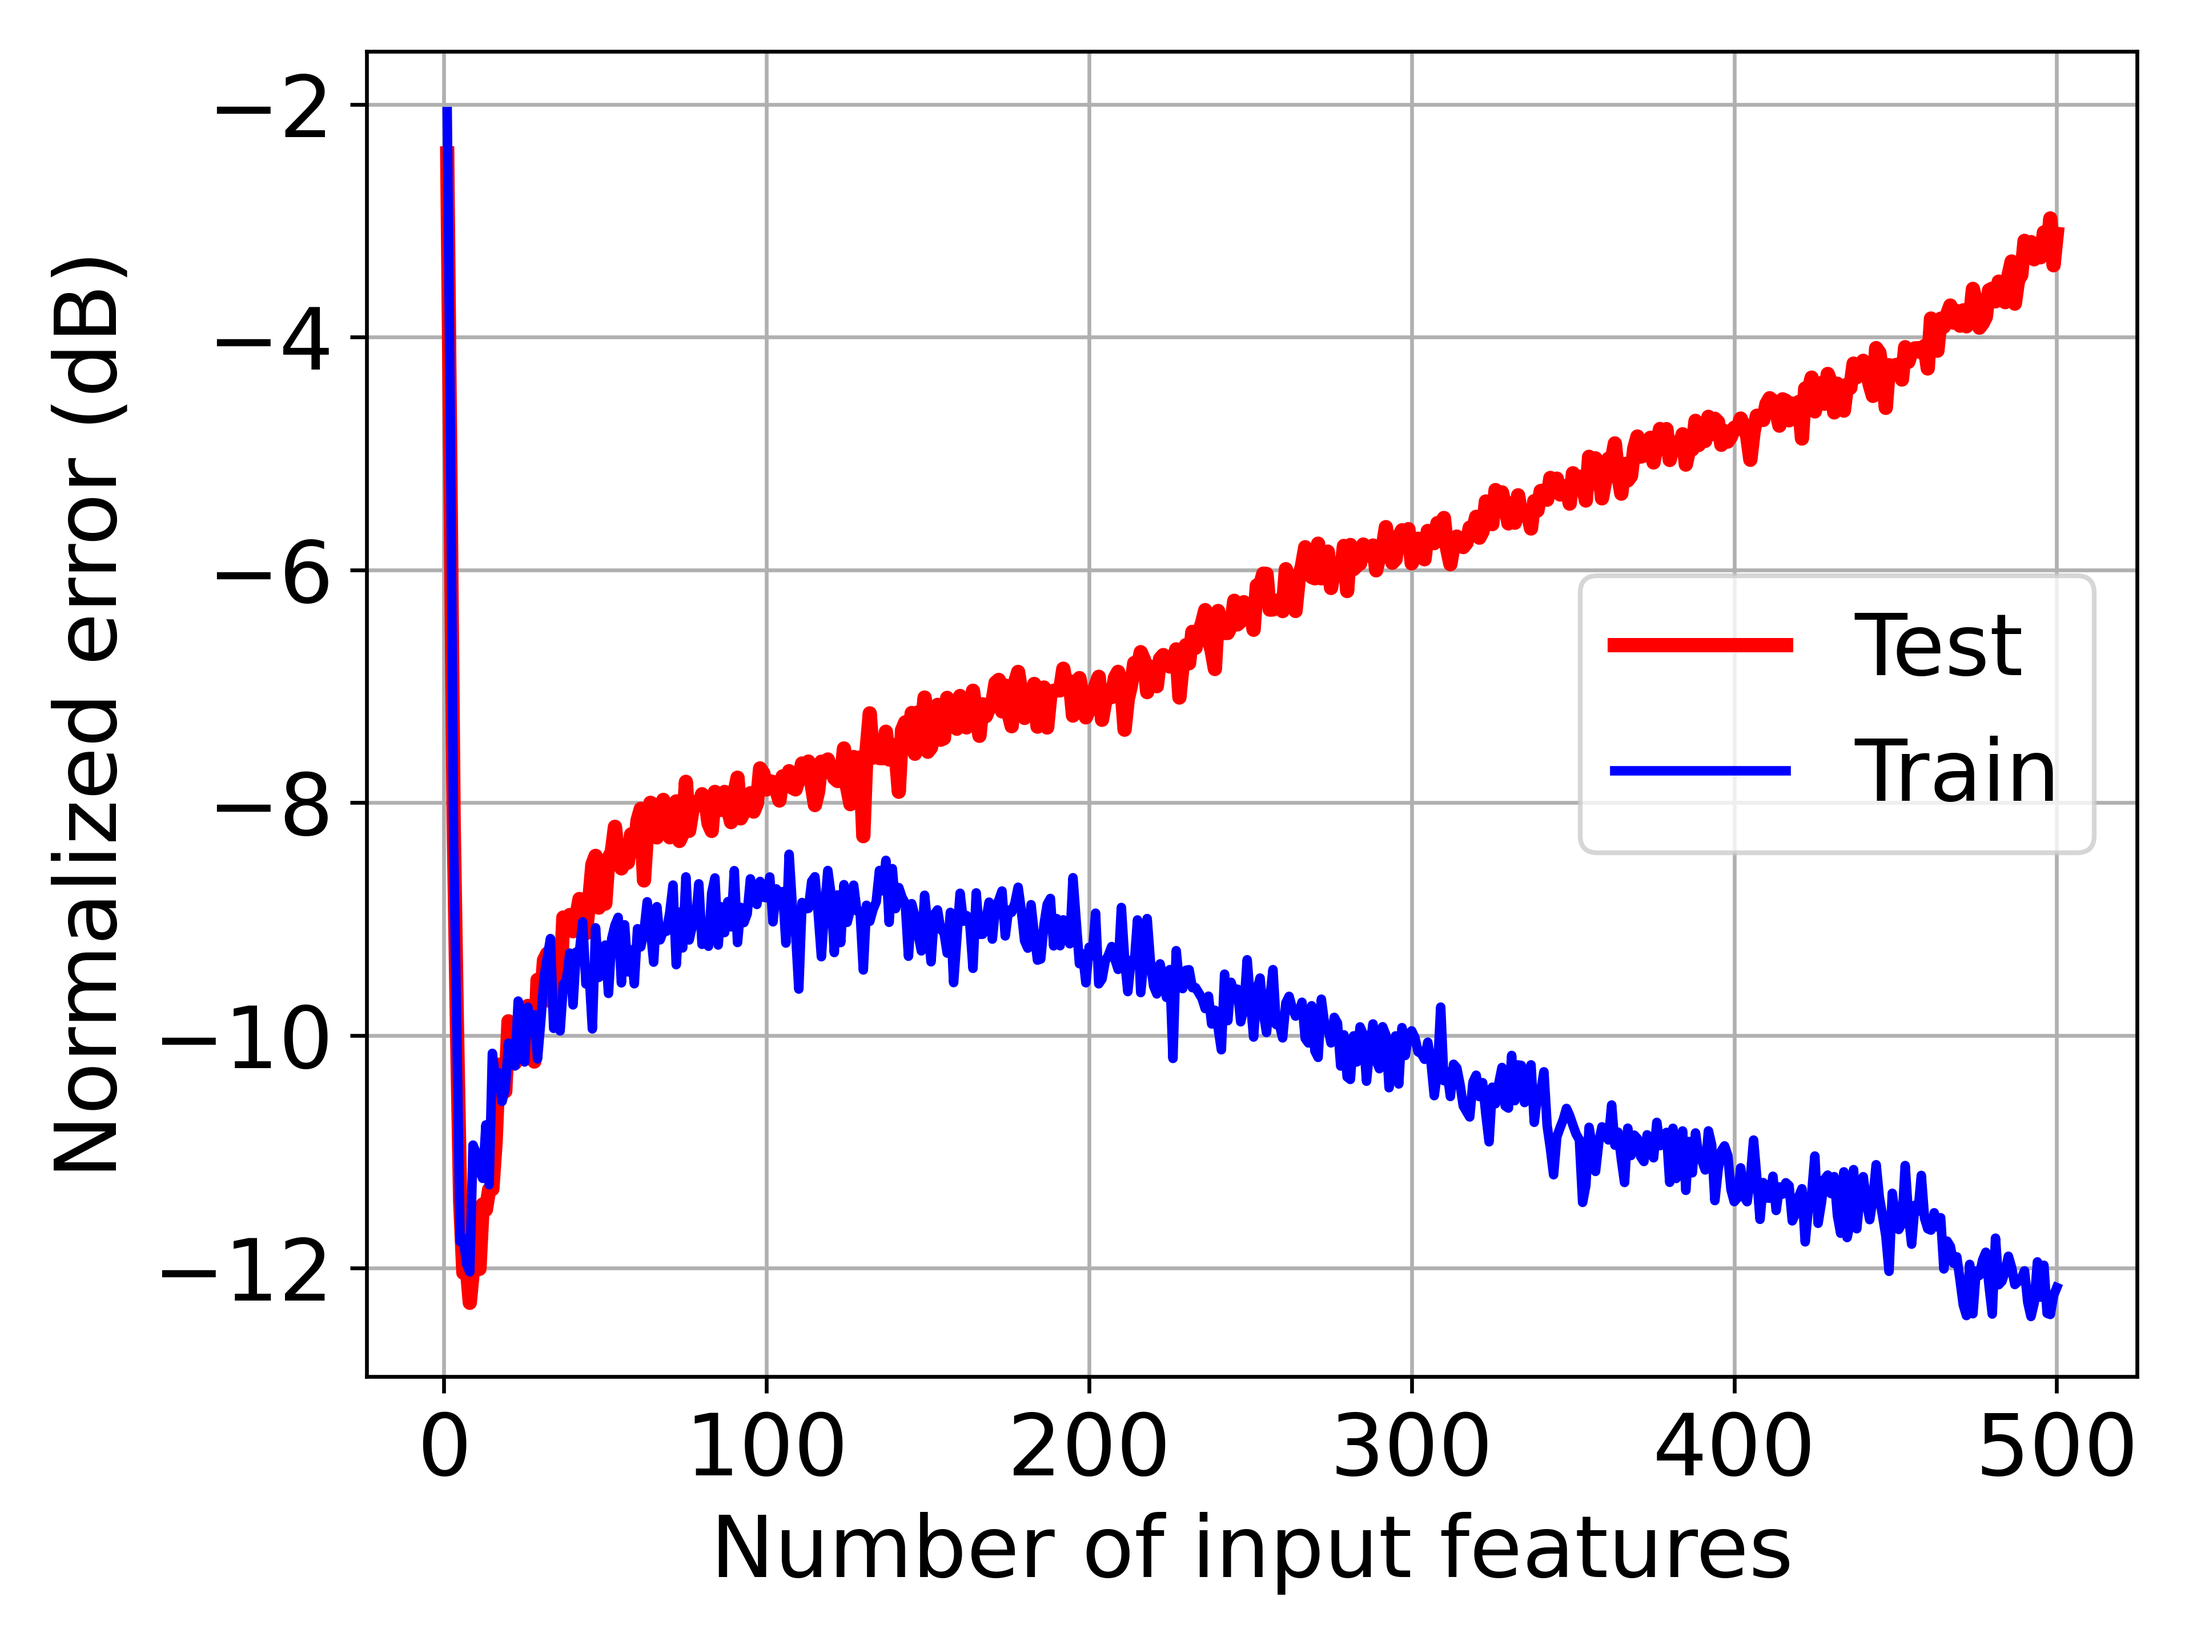
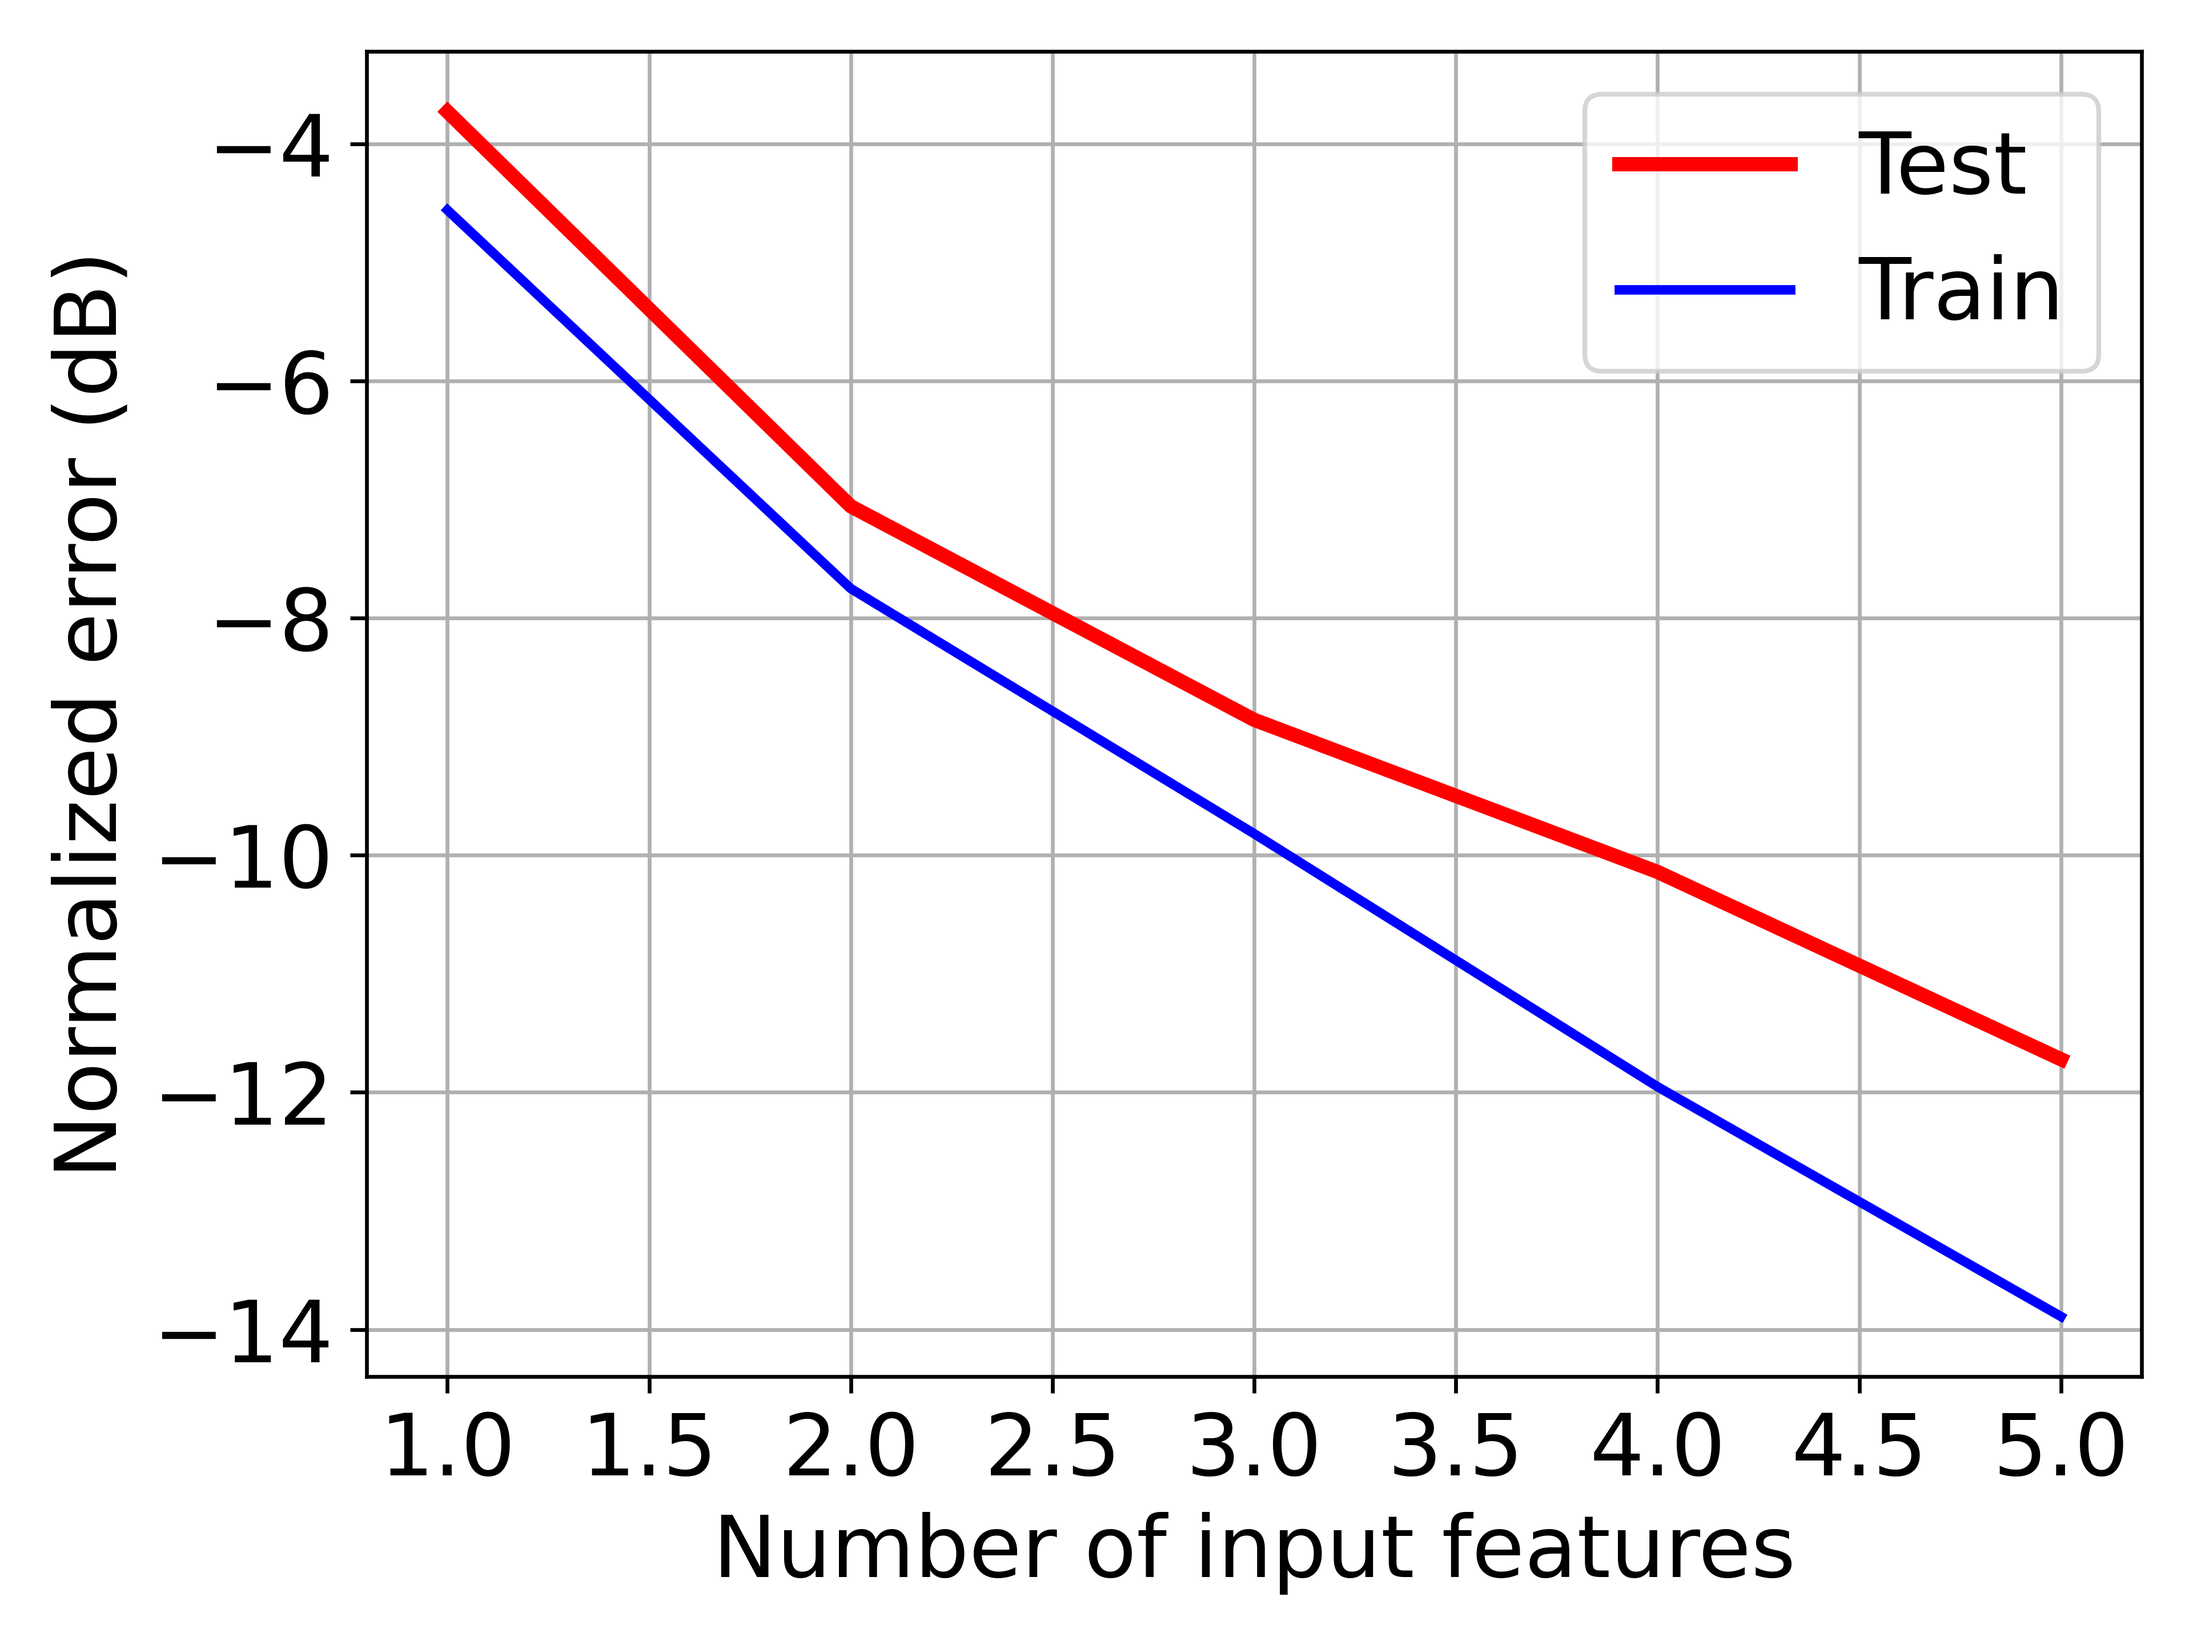
FNSR & FPSR

diff --git a/NMP.py b/NMP.py
@@ -114,6 +114,8 @@ def Err_vs_feat(args):
     """
     SSFN_hparameters = set_hparameters(args)
 
+    eta = args.eta
+
     J = SSFN_hparameters["J"]
     Pextra = SSFN_hparameters["Pextra"]
     data = SSFN_hparameters["data"]
@@ -121,10 +123,10 @@ def Err_vs_feat(args):
     NodeNum = SSFN_hparameters["NodeNum"]
 
     X_train, X_test, T_train, T_test = define_dataset(args)
-    X_train = X_train[:,:int(round(0.9*J))] 
-    T_train = T_train[:,:int(round(0.9*J))]
-    X_test = X_test[:,:int(round(0.1*J))] 
-    T_test = T_test[:,:int(round(0.1*J))]
+    # X_train = X_train[:,:int(round(0.9*J))] 
+    # T_train = T_train[:,:int(round(0.9*J))]
+    # X_test = X_test[:,:int(round(0.1*J))] 
+    # T_test = T_test[:,:int(round(0.1*J))]
 
     Ntr = X_train.shape[1]
     Nts = X_test.shape[1]
@@ -177,6 +179,10 @@ def Err_vs_feat(args):
         else:
             i = np.argmin(test_error_array)
 
+        if len(test_error_sorted) > 1:
+            if np.abs(test_error_array[i] - test_error_sorted[-1])/np.abs(test_error_sorted[-1]) < eta or np.abs(test_error_array[i]) <= np.abs(test_error_sorted[-1]):
+                break
+
         best_ind = search_ind[i]
         train_error_sorted = np.append(train_error_sorted, train_error_array[i])
         test_error_sorted = np.append(test_error_sorted, test_error_array[i])
@@ -184,6 +190,7 @@ def Err_vs_feat(args):
         test_acc_sorted = np.append(test_acc_sorted, test_acc_array[i])
         sorted_ind = np.append(sorted_ind, best_ind)
         search_ind = np.delete(search_ind, i)
+    
         # print(sorted_ind)
         # print(str(round(len(sorted_ind)/P * 100,2))+"%")
 
@@ -203,8 +210,8 @@ def Err_vs_feat(args):
     FontSize = 18
     csfont = {'fontname':'sans-serif'}
     plt.subplots()
-    plt.plot(np.arange(1,P+1), test_error_sorted, 'r-', label="Test", linewidth=3)
-    plt.plot(np.arange(1,P+1), train_error_sorted, 'b-', label="Train", linewidth=2)
+    plt.plot(np.arange(1,len(test_error_sorted)+1), test_error_sorted, 'r-', label="Test", linewidth=3)
+    plt.plot(np.arange(1,len(test_error_sorted)+1), train_error_sorted, 'b-', label="Train", linewidth=2)
     plt.legend(loc='best', fontsize=FontSize)
     plt.grid()
     plt.xlabel("Number of input features",fontdict=csfont, fontsize=FontSize)

diff --git a/main2.py b/main2.py
@@ -19,6 +19,7 @@ def define_parser():
     parser.add_argument("--LayerNum", type=int, default=1, help="Parameter for ADMM")
     parser.add_argument("--J", type=int, default=1000, help="Sample Size")
     parser.add_argument("--Pextra", type=int, default=0, help="Number of extra random features")
+    parser.add_argument("--eta", type=float, default=0.06, help="Stopping criterion for NMP")
     args = parser.parse_args()
     return args
 
@@ -61,13 +62,13 @@ def main():
     for i in np.arange(0,MC_Num):
         X_train, X_test, T_train, T_test = define_dataset(args)
         S_hat = NMP_train(X_train, X_test, T_train, T_test, args) # set of selected features  
-        print(S_hat)
+        # print(S_hat)
 
-        NMP_FPSR[0,i] = FPSR(S,S_hat[0:len(S)])
-        NMP_FNSR[0,i] = FNSR(S,S_hat[0:len(S)])
+        NMP_FPSR[0,i] = FPSR(S,S_hat)
+        NMP_FNSR[0,i] = FNSR(S,S_hat)
 
-        print(NMP_FPSR)
-        print(NMP_FNSR)
+        # print(NMP_FPSR)
+        # print(NMP_FNSR)
 
     NMP_avg_FPSR = np.mean(NMP_FPSR)
     NMP_avg_FNSR = np.mean(NMP_FNSR)
